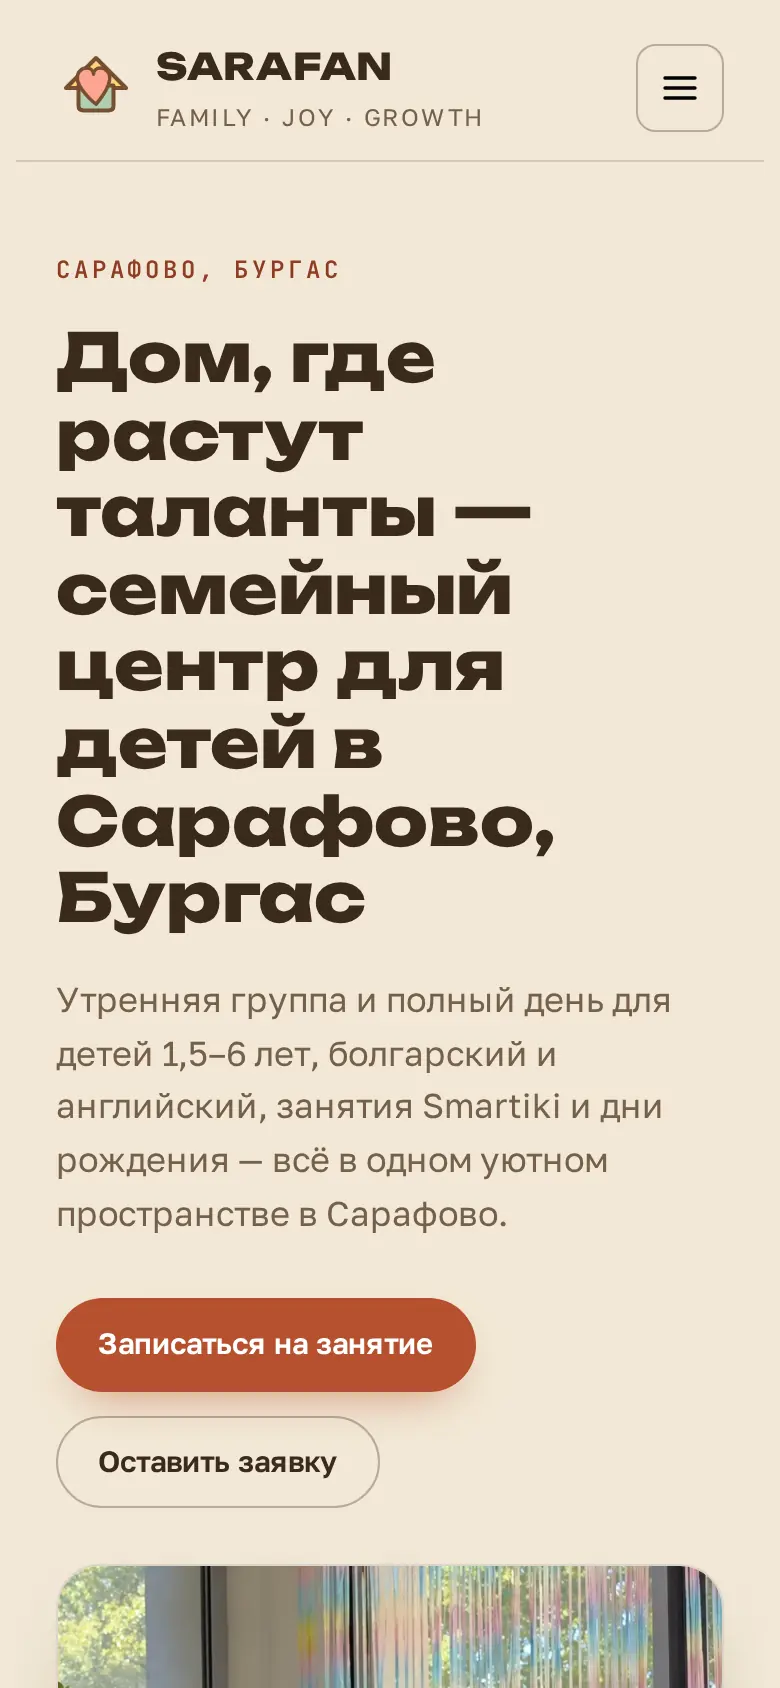
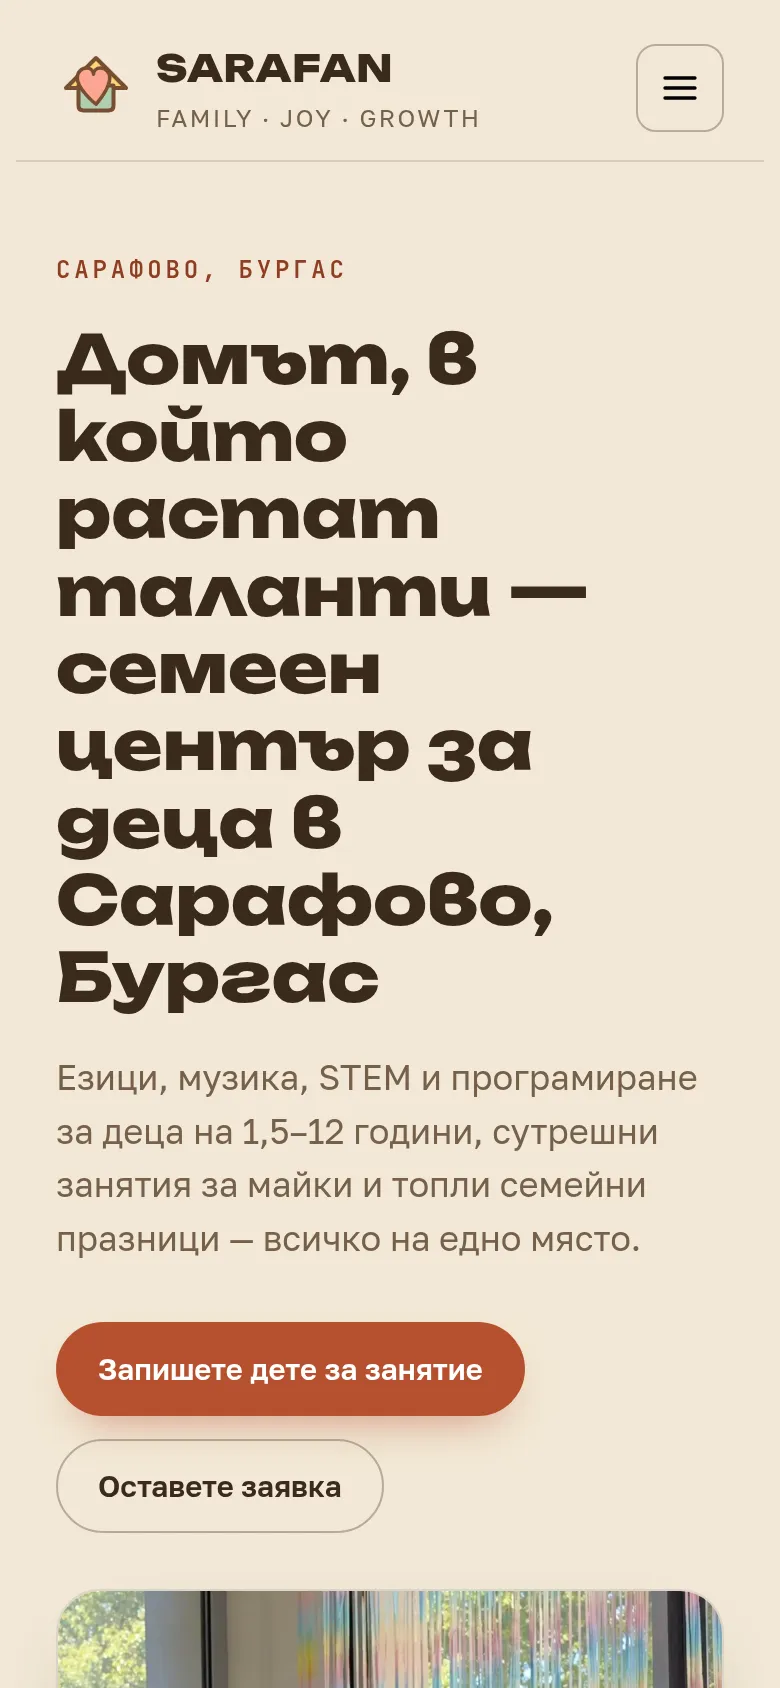
works: real-client phone anchored to the screenshot (no longer covers the text), BG screenshots of sarafan, per-language links, no duplicate tag

diff --git a/static/css/site.css b/static/css/site.css
@@ -456,16 +456,17 @@ mark,.num{background:linear-gradient(100deg,transparent .12em,var(--marker) .12e
 @media (max-width:760px){.client{grid-template-columns:1fr;padding:20px}}
 .client-card{position:relative;display:grid;grid-template-columns:minmax(0,1.25fr) minmax(0,.75fr);gap:clamp(24px,4vw,56px);align-items:center;text-decoration:none;
   background:#fff;border:1px solid var(--line);border-radius:22px;padding:clamp(18px,3vw,32px)}
-.client-card>img{border-radius:14px;border:1px solid var(--line);aspect-ratio:16/10;object-fit:cover;object-position:top}
-.client-card>.phone{position:absolute;left:calc(clamp(18px,3vw,32px) + 52%);bottom:-24px;width:min(19%,170px);border-radius:30px;padding:6px}
-.client-card>.phone::before{top:10px;width:46px;height:12px;margin-left:-23px}
+.client-shot{position:relative;display:block}
+.client-shot>img{border-radius:14px;border:1px solid var(--line);aspect-ratio:16/10;object-fit:cover;object-position:top}
+.client-shot>.phone{position:absolute;right:-14px;bottom:-28px;width:min(28%,170px);border-radius:30px;padding:6px}
+.client-shot>.phone::before{top:10px;width:46px;height:12px;margin-left:-23px}
 .client-card .phone-screen{border-radius:24px;padding-top:24px}
 .client-card .phone-screen::before{top:8px;font-size:8px}.client-card .phone-screen::after{top:9px;width:12px;height:6px;border-width:1px}
 .client-card-body{display:grid;gap:12px;justify-items:start}
 .client-card-body .client-tag{border-color:var(--ink);color:var(--ink)}
 .client-card-body b{font:800 clamp(1.8rem,3vw,2.5rem)/1 var(--sans);letter-spacing:-.04em}
 .client-card-body span:not(.client-tag):not(.link){color:var(--sub)}
-@media (max-width:860px){.client-card{grid-template-columns:1fr}.client-card>.phone{display:none}}
+@media (max-width:860px){.client-card{grid-template-columns:1fr}.client-shot>.phone{display:none}}
 
 /* /ceni/: одна липкая панель (итог калькулятора) вместо двух */
 @media (max-width:760px){.page-ceni .mbar{display:none}.page-ceni{padding-bottom:0}}

diff --git a/app/templates/raboti.html b/app/templates/raboti.html
@@ -13,9 +13,11 @@
   <div class="wrap">
     <h2 class="sub-h" data-r>{{ t.client.label }}</h2>
     <a class="client-card" href="{{ t.client.url }}" target="_blank" rel="noopener" data-r>
-      <img src="/static/img/client-sarafan.webp" width="1200" height="750" alt="{{ t.client.name }}: sarafan-bg.com" loading="lazy" decoding="async">
-      <span class="phone phone-sm"><span class="phone-screen"><img src="/static/shots/sarafan.webp" width="780" height="1688" alt="" loading="lazy" decoding="async"></span></span>
-      <span class="client-card-body"><span class="client-tag">{{ t.client.label }}</span><b>{{ t.client.name }}</b><span>{{ t.client.text }}</span><span class="link">{{ t.client.open }} {{ icon("out", 16) }}</span></span>
+      <span class="client-shot">
+        <img src="/static/img/client-sarafan.webp" width="1200" height="750" alt="{{ t.client.name }}: sarafan-bg.com" loading="lazy" decoding="async">
+        <span class="phone phone-sm"><span class="phone-screen"><img src="/static/shots/sarafan.webp" width="780" height="1688" alt="" loading="lazy" decoding="async"></span></span>
+      </span>
+      <span class="client-card-body"><b>{{ t.client.name }}</b><span>{{ t.client.text }}</span><span class="link">{{ t.client.open }} {{ icon("out", 16) }}</span></span>
     </a>
     <h2 class="sub-h" data-r style="margin-top:clamp(56px,7vw,96px)">{{ t.works_page.demos }}</h2>
     <div class="grid-works">
